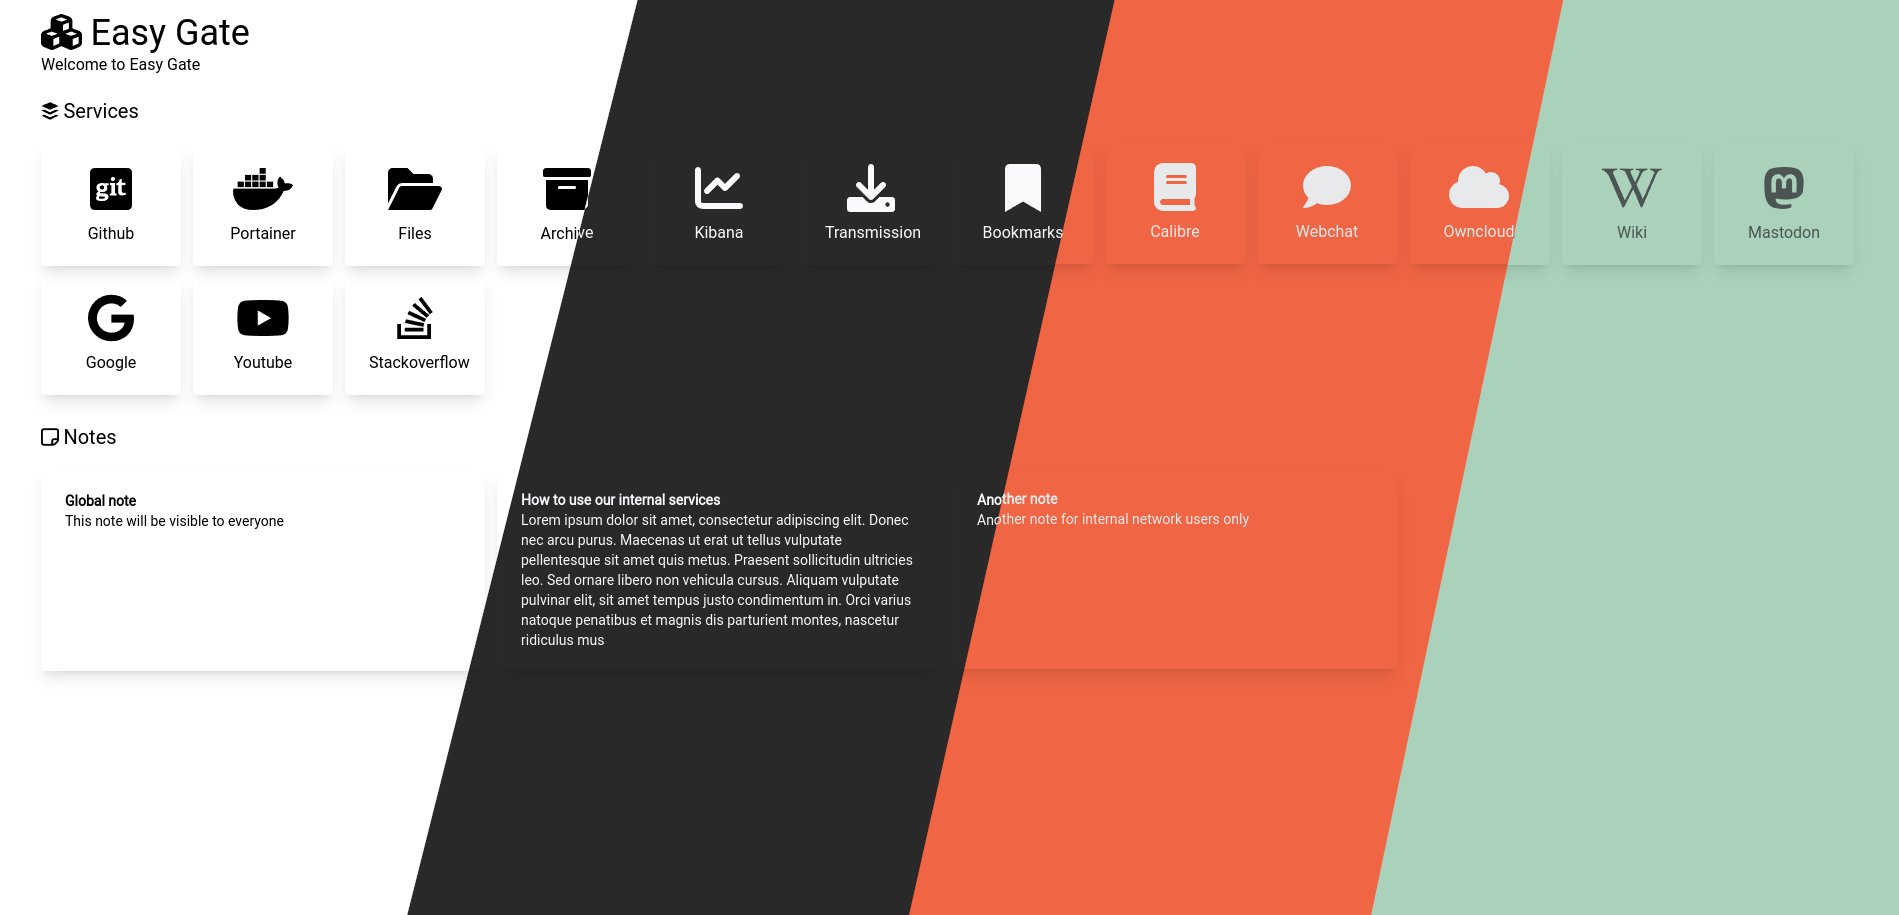
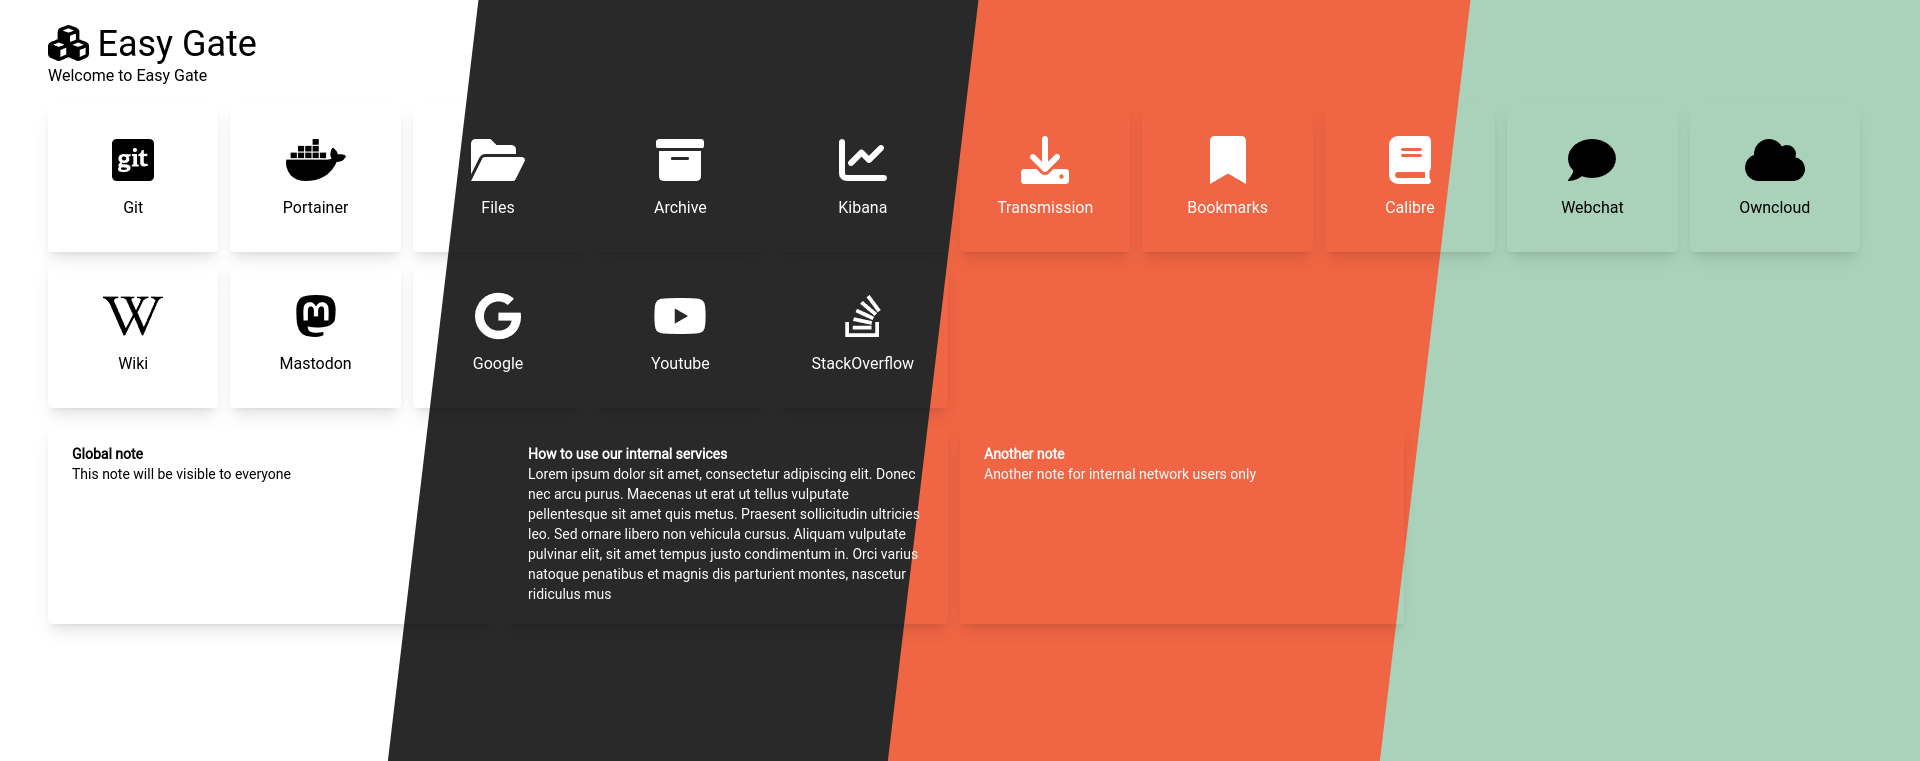
minour ui improvements and better logs

diff --git a/web/src/App.js b/web/src/App.js
@@ -86,10 +86,9 @@ function App() {
           {data.error.length > 0 && <Error error={data.error} />}
           {data.services.length > 0 && (
             <React.Fragment>
-              <h3 className="text-xl mt-5">
-                <FontAwesomeIcon icon="fa-brands fa-buffer" /> Services
-              </h3>
-              <div className="grid grid-cols-1 md:grid-cols-6 lg:grid-cols-8 xl:grid-cols-12 mt-5">
+              <div
+                className="grid grid-cols-1 md:grid-cols-4 lg:grid-cols-6
+                           xl:grid-cols-10 mt-4 mb-2">
                 {data.services.map((service) => (
                   <Service key={service.name} service={service} />
                 ))}
@@ -98,10 +97,9 @@ function App() {
           )}
           {data.notes.length > 0 && (
             <React.Fragment>
-              <h3 className="text-xl mt-5">
-                <FontAwesomeIcon icon="fa-regular fa-note-sticky" /> Notes
-              </h3>
-              <div className="grid grid-cols-1 md:grid-cols-1 lg:grid-cols-2 xl:grid-cols-4 mt-5">
+              <div
+                className="grid grid-cols-1 md:grid-cols-1 lg:grid-cols-2 
+                           xl:grid-cols-4 my-2">
                 {data.notes.map((note) => (
                   <Note key={note.title} note={note} />
                 ))}

diff --git a/web/src/components/Service.js b/web/src/components/Service.js
@@ -32,10 +32,12 @@ function Service(props) {
   return (
     <div
       onClick={() => openService(props.service.url)}
-      className="px-6 py-5 rounded overflow-hidden shadow-lg text-center
-      cursor-pointer hover:shadow-gray-600 mr-3 mb-2">
+      className="p-8 rounded overflow-hidden shadow-lg text-center
+      cursor-pointer hover:shadow-gray-600 mr-3 mb-2 grid place-items-center">
       <FontAwesomeIcon icon={props.service.icon} className="fa-3x" />
-      <h3 className="mt-2">{props.service.name}</h3>
+      <p className="mt-3 text-ellipsis overflow-hidden ...">
+        {props.service.name}
+      </p>
     </div>
   );
 }

diff --git a/internal/service/service.go b/internal/service/service.go
@@ -71,6 +71,7 @@ func (s Service) data(w http.ResponseWriter, req *http.Request) {
 	if cfg.BehindProxy {
 		reqIP = req.Header.Get("X-Forwarded-For")
 		if reqIP == "" {
+			log.Println("[Easy Gate] 400 Bad Request: X-Forwarded-For header is missing")
 			http.Error(w, "", http.StatusBadRequest)
 			return
 		}

diff --git a/internal/config/routine.go b/internal/config/routine.go
@@ -74,6 +74,7 @@ func (r *Routine) Start() {
 		r.Lock()
 		r.Error = nil
 		if checksum != r.LastChecksum {
+			log.Println("[Easy Gate] Detected configuration change, reloading...")
 			r.Config = cfg
 		}
 		r.LastChecksum = checksum
